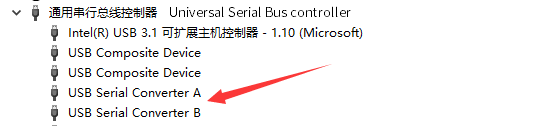
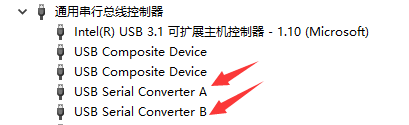
add some QA about fpga

diff --git a/docs/hardware/en/tang/Tang-Nano-Doc/questions.md b/docs/hardware/en/tang/Tang-Nano-Doc/questions.md
@@ -1,14 +1,16 @@
 # Note
 
-> Edit on 2022.05.07
+> Edit on 2022.05.12
 
 - This is for Windows users only
 
 ## Troubles with programmer
 
-Make sure there are 2 converters in Device Manager before reading.
+**Make sure there are 2 converters in Device Manager before reading.**
 
 ![](./../../../zh/tang/assets/questions/converter.png)
+
+If there are two converters, this means computer and board succeed connectting. And if there is no converter, try another USB port or reinstall driver.
 
 ### Trouble downloading
 
@@ -18,13 +20,43 @@ Make sure there are 2 converters in Device Manager before reading.
 
 This error means wrong device choice. All that refers chip model(like he project device, pin constrain, IP modules and programmer device choose) need to be changed. 
 
-### No Gowin devices found
-
-This can be solved by replacing Programmer as mentioned in **Trouble downloading**
-
 ### Download slowly
 
-Don't choose Operation containing verify
+Don't choose Operation containing Verify
+
+![](./../../../zh/tang/assets/questions/never_choose_verify.png)
+
+### Can't find download file
+
+Normally the download file whose extension name is fs is in the impl/pnr folder under the project path.
+
+<details>
+  <summary><font color="#4F84FF">Click to see steps by picture</font></summary>
+  <img src="./../../../zh/tang/assets/questions/fs_path.png">
+  <p>From the picture above we can know the path of this download file is fpga_project1/impl/pnr/fpga_project1.fs </p>
+  <p></p>
+  <p> The fpga_project1 is the project dictionary, the impl is generated by IDE, and the download is in the folder named pnr</p>
+  <p></p>
+  <p> The file whose extension name is fs is what we will burn into fpga</p>
+</details>
+
+### No Gowin devices found
+
+This can be solved by replacing Programmer as mentioned in **[Trouble downloading](#trouble-downloading)**
+
+### Cabel open failed
+
+After finishing replacing **programmer** as mentioned previously,Do following steps in programmer application.
+
+Click Edit->Cable Setting->Cable->Query in the top menu bar,then save.
+
+<details>
+  <summary><font color="#4F84FF">Click to see steps by pictures</font></summary>
+  <img src="./../../../zh/tang/assets/questions/cable.png">
+  <p>Click Query in the following picture</p>
+  <img src="./../../../zh/tang/assets/questions/click_query.png" >
+  <p>Click Save</p>
+</details>
 
 ## Using GAO
 

diff --git a/docs/hardware/zh/tang/Tang-Nano-Doc/questions.md b/docs/hardware/zh/tang/Tang-Nano-Doc/questions.md
@@ -2,15 +2,17 @@
 title: Note
 ---
 
-> 编辑于2022.05.07
+> 编辑于2022.05.12
 
 这里汇总一些常见问题，持续更新
 
 ## Programmer 相关
 
-首先确定设备管理器里面有两个converter，在进行下面的操作
+**首先确定设备管理器里面有两个converter，在进行下面的操作**
 
-![](./../assets/questions/converter.png)
+![](./../../assets/questions/converter.png)
+
+与上图中一样的话说明电脑与板子连接没问题；不存在的话请更改 usb口 或者重新安装驱动。
 
 ### 下载失败
 
@@ -25,13 +27,44 @@ https://dl.sipeed.com/shareURL/TANG/programmer 里面的文件。
 
 重新检查工程中的芯片型号（比如工程设置、引脚约束、各个IP中的型号），与板子上的芯片丝印对应上。
 
-### No Gowin devices found
-
-这种情况可以和上面的 下载失败 里面的内容一样先替换 Programmer 文件夹。
-
 ### 下载卡住
 
-不要选中带有 verify 选项的。
+不要选中带有 Verify 选项的。
+
+![](./../assets/questions/never_choose_verify.png)
+
+### 找不到下载文件
+
+一般来说生成的下载文件（拓展后缀为.fs）在工程目录下的 impl/pnr 文件夹里面。
+
+<details>
+  <summary><font color="#4F84FF">点开查看相关图文说明</font></summary>
+  <img src="./../assets/questions/fs_path.png">
+  <p> 在上图中可以看到这个下载文件的路径为 /fpga_project1/impl/pnr/fpga_project1.fs </p>
+  <p></p>
+  <p> 其中 fpga_project1 为工程目录，impl 为 IDE 生成的目录，然后所需要的文件位于 pnr 文件夹内</p>
+  <p></p>
+  <p> 然后那个拓展名为 .fs 的文件就是下载到 fpga 的文件</p>
+</details>
+
+### No Gowin devices found
+
+这种情况可以和上面的 [下载失败](#下载失败) 里面的内容一样替换 Programmer 文件夹。
+
+### Cabel open failed
+
+参考上一步 No Gowin devices found 的操作后，再 programmer 里面进行下面操作：
+
+点击顶部菜单栏的 Edit->Cable Setting->Cable->Query，然后 Save 即可
+
+<details>
+  <summary><font color="#4F84FF">点开查看操作步骤图片</font></summary>
+  <img src="./../assets/questions/cable.png">
+  <p>点击下图中的 Query</p>
+  <img src="./../assets/questions/click_query.png" >
+  <p>接着再点击 Save 即可</p>
+</details>
+
 
 ## IDE 使用相关
 
